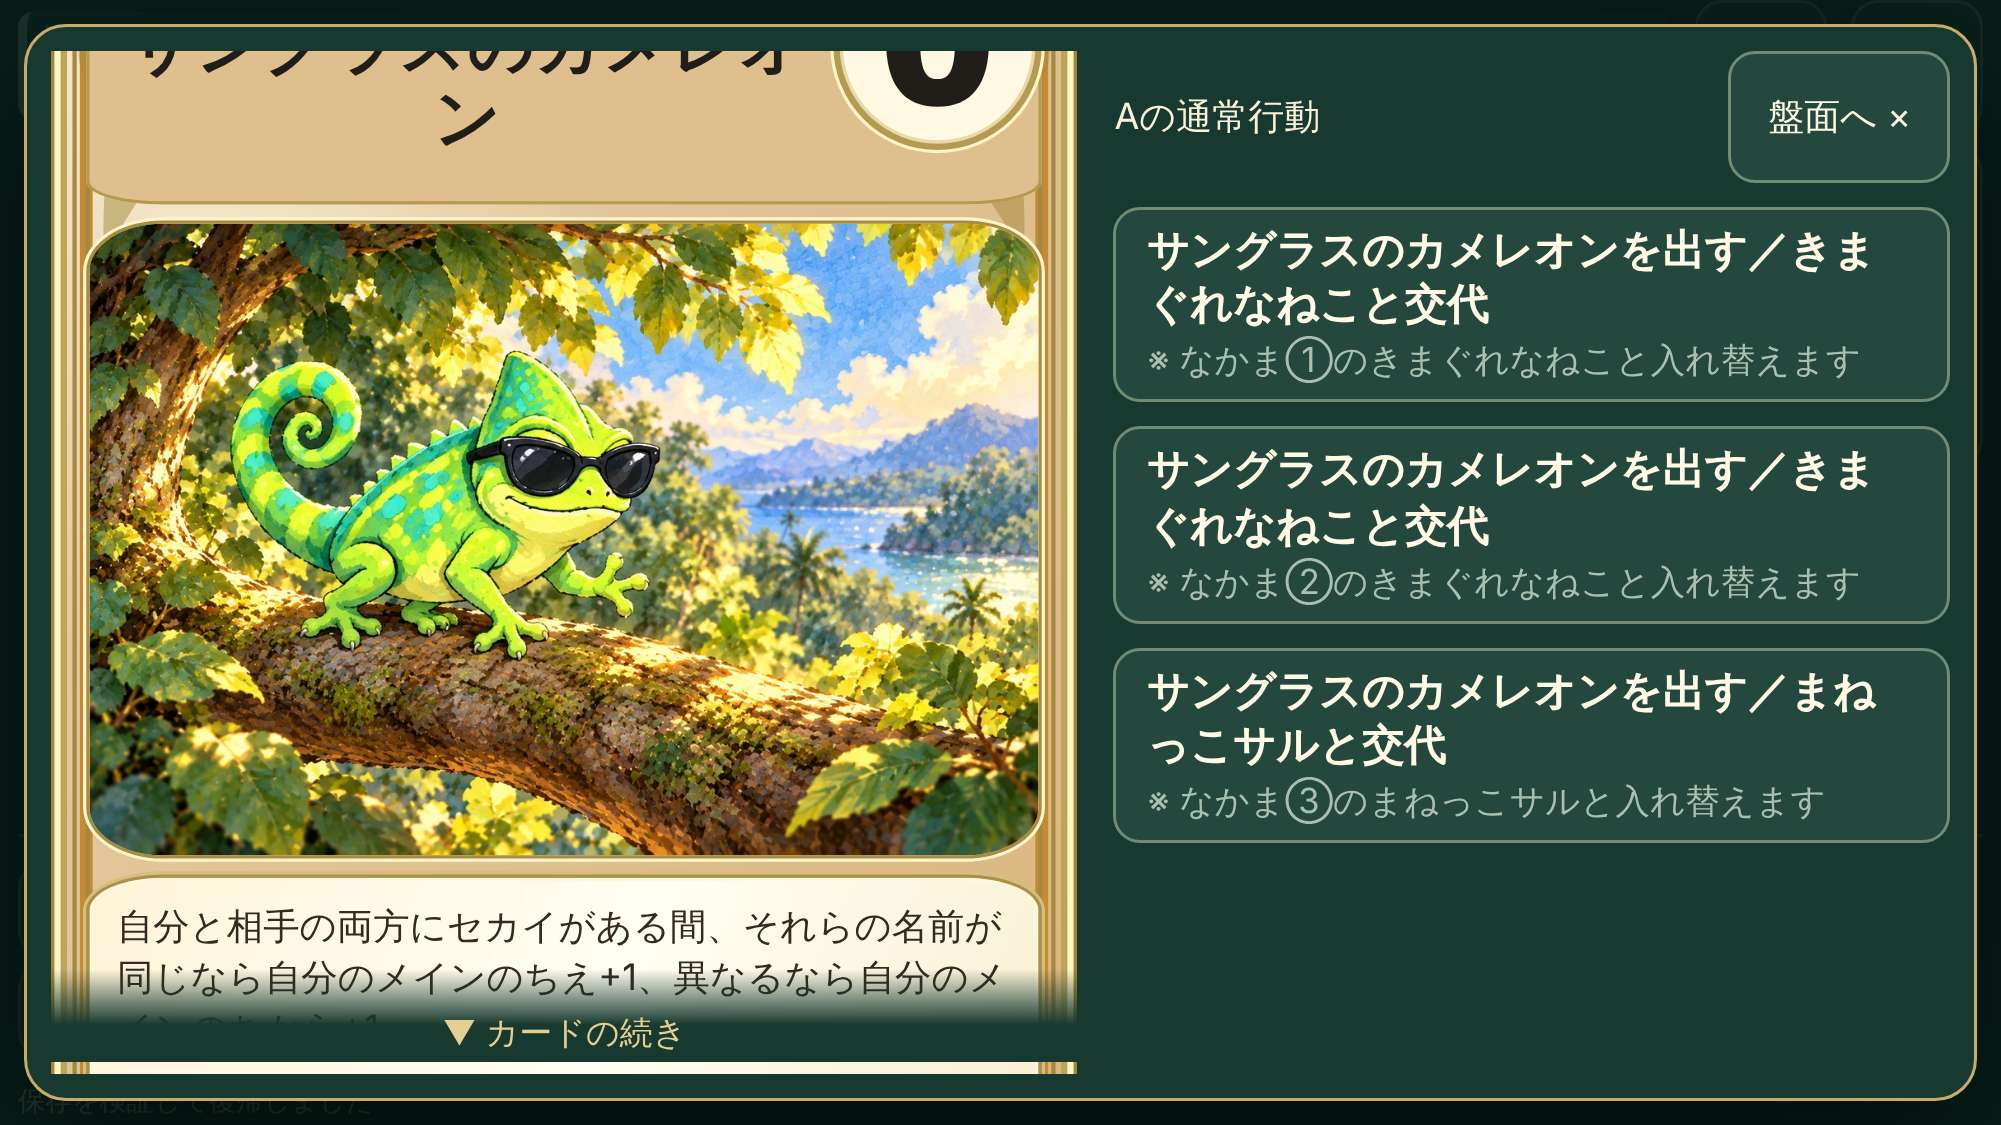
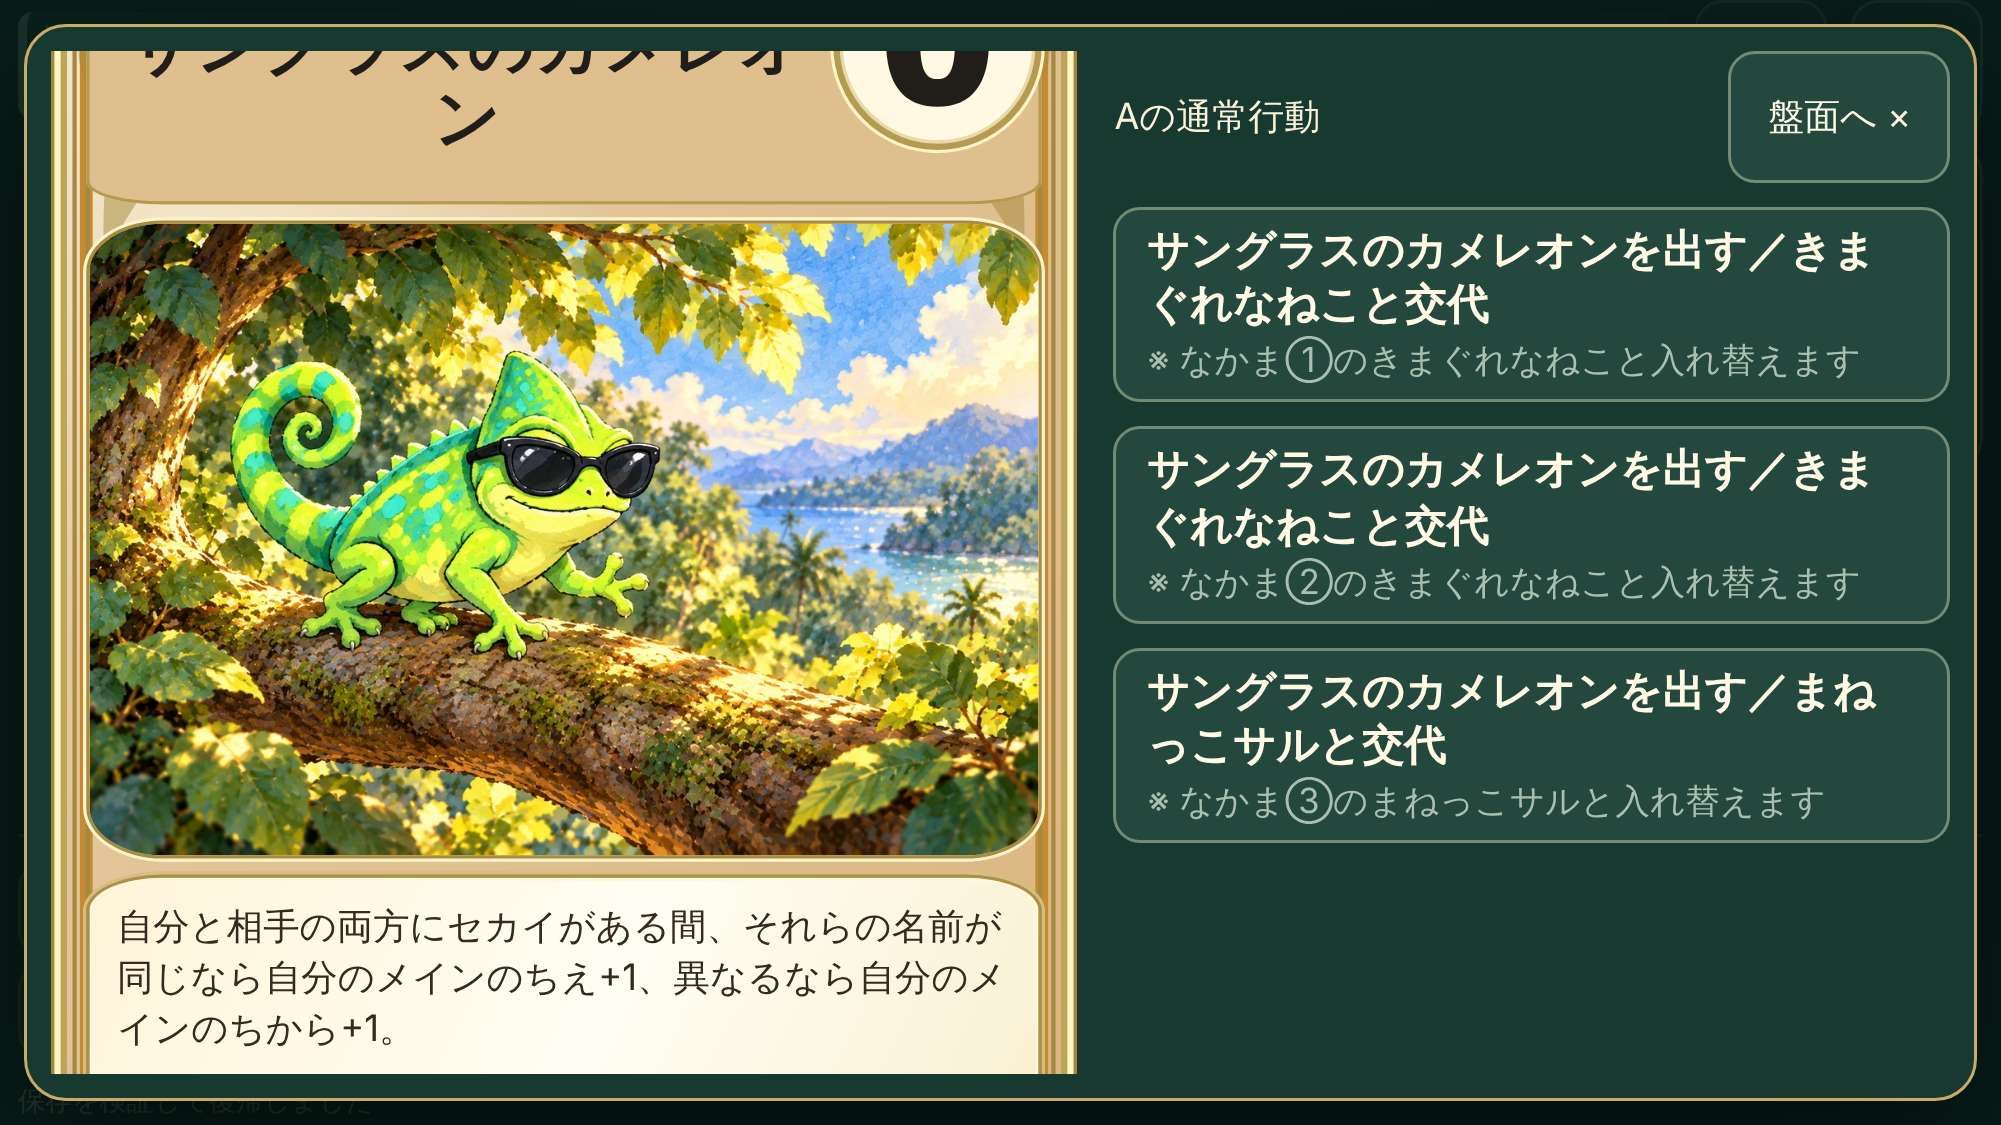
card-game: 案内帯撤廃のQA結果・右下の撮影・説明を更新（ダブルタップQAは動き終わりを待つ）
Claude-Session: https://claude.ai/code/session_018grTpWFJZUpn1gtteB7ViQ

Changed region(s): [[0.0, 0.84, 0.5577, 0.9644]]

diff --git a/prototypes/card-game/detail-doubletap-20261029/compare/README.md b/prototypes/card-game/detail-doubletap-20261029/compare/README.md
@@ -1,5 +1,7 @@
 # カード拡大の比較モード：右下の白い表示崩れの切り分けと、なめらかさの比較（2026-10-29）
 
+**追記（最終決定）:** 本人の確認で、白い領域の主な原因は「▼ カードの続き」の帯が途中で切れ、右側に本文のクリーム色が見えていたことと考えられます（本人の iPhone で最終確認が必要）。帯は正式版から撤廃し、比較の B（帯なし）は不要になったので削除しました。帯をなくしても白い部分が残る場合に備えて、ほかの比較（色分け・C〜F）は残しています。
+
 前回（HEAD `2ad26474`）の修正後も、本人の iPhone Safari で「拡大時の右下の白い表示崩れ」が残りました。拡大・縮小は以前よりなめらかになりましたが、さらに改善できるかも確かめます。
 
 **この回は正式ゲームのコード（`app.mjs`・`ui-viewport.mjs`・`style.css` など）を変えていません。** 原因が特定できていないため、推測で直すのをやめました。代わりに、本人の iPhone で原因を切り分けられる比較モードを、試遊版にだけ追加しました（`../../detail-stage-20261029/trial.mjs`・`trial.css`・`build-trial.mjs`）。
@@ -18,7 +20,7 @@
 |---|---|---|
 | ページ（`html`） | 試遊版では claude.ai の枠の中の地。通常は白 | 青 |
 | 詳細の画面（`#card-dialog`） | 深緑 | 紫 |
-| スクロール枠（`.stage-scroll`）と「▼ カードの続き」 | 深緑のグラデーション | 緑 |
+| スクロール枠（`.stage-scroll`） | 深緑。「▼ カードの続き」の帯は最終決定で撤廃 | 緑 |
 | カード枠（`.stage-card`） | 透明。中身を `transform: scale` で拡大・縮小 | 水色 |
 | カード面（`.card-face`） | 金色の地に**白っぽいグラデーション**。角丸＋はみ出しの切り取り（`overflow:hidden`）、`isolation`、`container-type` | 桃 |
 | 枠飾り（`svg.botanical`） | 金の線（面いっぱいの SVG） | （線のまま） |
@@ -32,7 +34,6 @@
 | 選択肢 | 変えること | 白い部分が消えたら、原因は |
 |---|---|---|
 | A 現行 | なし（いまの正式版と同じ） | — |
-| B「カードの続き」なし | 下端の「▼ カードの続き」の重ね表示を出さない | 重ね表示 |
 | C 切り取りを clip-path に | カード面・絵・本文の角丸の切り取りを `overflow:hidden` から `clip-path` に替える | 角丸の切り取り（WebKit の切り取りの描画） |
 | D カードを独立した描画層に | カードを常に別の描画層にする（`will-change: transform`） | 描画層の作り直し・タイルの描き残し |
 | E 拡大は実寸（zoom）で描く | 拡大中は `transform: scale` を使わず、CSS `zoom` で実際の大きさに描く | 拡大した変形の描画（WebKit の拡大描画） |
@@ -40,10 +41,10 @@
 
 - **色分け**（チェック）は、上のどれとも組み合わせられます。白い部分が何色に変わるかで、どの部分が見えているかが分かります。
 - **動きの長さ**は 200ms・260ms（現行）・320ms から選べます。
-- 詳細の上部に、選んだ方法（例「A・色・260ms」）が出るので、スクリーンショットだけでどの条件か分かります。
+- 既定（A・260ms・色分けなし）から変えた時だけ、詳細の上部に選んだ条件（例「C・260ms」）が出ます。通常の試遊では出ません。
 - 設定は試遊版の中だけに保存されます。正式ゲームには入りません（試遊版の組み立て時だけに加わる部分です）。
 
-Chromium での確認（[variants.json](variants.json)・[screenshots/](screenshots/)）: A〜F と色分けのすべてで、ダブルタップの拡大・縮小、元の大きさへの復帰、保存不変、ページ内エラーなしを確かめました（390×844・844×390、16/16）。E でも本文の改行位置は A と同じでした。
+Chromium での確認（[variants.json](variants.json)・[screenshots/](screenshots/)）: A・C〜F と色分けのすべてで、ダブルタップの拡大・縮小、元の大きさへの復帰、保存不変、ページ内エラーなしを確かめました（390×844・844×390、14/14）。E でも本文の改行位置は A と同じでした。
 
 ## 本人に確かめていただく手順
 
@@ -52,7 +53,7 @@ Chromium での確認（[variants.json](variants.json)・[screenshots/](screensh
    - **青**に変わる → ページの地が見えている（その部分がまったく描かれていない「穴」）
    - **黄**に変わる → 本文の背景（その範囲が正しくない）
    - **白のまま** → 上のどれでもない（白い何かが上に描かれている）
-2. 色分けを外して、**B・C・D・E・F** のそれぞれで同じ操作をし、白い部分が出るかどうかを見る。ピンチでの拡大も同じように確かめる。
+2. 色分けを外して、**C・D・E・F** のそれぞれで同じ操作をし、白い部分が出るかどうかを見る。ピンチでの拡大も同じように確かめる。
 3. なめらかさは、**A の 200・260・320ms** と **D の 260ms** を比べる。
 
 結果（どの選択肢で白い部分が消えたか、色分けで何色になったか）を教えていただければ、その原因に合わせて正式版を直します。

diff --git a/prototypes/card-game/detail-doubletap-20261029/README.md b/prototypes/card-game/detail-doubletap-20261029/README.md
@@ -114,6 +114,17 @@ PR #477 の公開後、本人の iPhone Safari で「ピンチでは拡大でき
 
 拡大中は、縦画面・横画面とも「－ 縮小」ボタンを出しません。戻るときはダブルタップ（またはピンチイン）です。拡大していないときの縦画面の「＋ 拡大」は従来どおりです。
 
+## 最終決定：「▼ カードの続き」の案内帯を撤廃（本人の iPhone 確認を受けて）
+
+本人の iPhone のスクリーンショットでは、拡大したカードの下部に暗い案内帯「▼ カードの続き」が途中まで表示され、その右側に本文のクリーム色が見えていました。これが「右下の白い領域」の主な原因と考えられます。
+
+- 案内帯は、カードの部分（スクロール枠）の下端に重ねて表示していました。帯の幅はスクロール枠の見えている幅で、拡大してカードが枠より広くなると、横にスクロールした先では帯が途中で切れます。
+- 本人の決定により、帯の幅を合わせるのではなく、**帯そのものを撤廃**しました。縦横・通常表示・拡大中のすべてで、カードの部分には案内を出しません。カードのスクロール自体はそのままです。
+- 操作ボタン欄の「▼ ほかの選択肢があります」（4つ以上の選択肢）は従来どおりです。
+- 帯のために、カードの部分をスクロールするたびにカードの大きさを計算し直していた処理もなくしました。今は操作ボタン欄の案内だけを軽く更新します。拡大中のスクロールの負担が減ります。
+- QA: 通常・ダブルタップ・ピンチ・拡大中のスクロール・動きの途中・縮小後の34時点で、6画面とも帯が一度も出ないことを確かめました。右下の撮影は [bottom-right/](bottom-right/) の `final-*` です。
+- 帯をなくしても別の白い部分が残るかは、本人の iPhone での確認が必要です。残る場合は、試遊版の比較モード（色分け・C〜F）で切り分けます（[compare/README.md](compare/README.md)）。
+
 ## 比較モード（白い表示崩れの切り分け・なめらかさの比較）
 
 前回の修正後も、本人の iPhone で右下の白い表示崩れが残りました。原因を特定するため、試遊版にだけ比較モードを加えました。正式ゲームのコードは変えていません。詳細と、本人に確かめていただく手順は [compare/README.md](compare/README.md) を参照してください。
@@ -131,7 +142,7 @@ PR #477 の公開後、本人の iPhone Safari で「ピンチでは拡大でき
 
 ## ブラウザQA（Chromium・iPhone相当のタッチ・モバイル表示・3倍密度）
 
-`qa.mjs` → [qa-results.json](qa-results.json)、**174/174 PASS**。○は合格、—はその画面では対象外。
+`qa.mjs` → [qa-results.json](qa-results.json)、**180/180 PASS**。○は合格、—はその画面では対象外。
 
 | 確認 | 390x844 | 320x568 | 844x390 | 852x393 | 932x430 | 667x375 |
 |---|---|---|---|---|---|---|
@@ -163,6 +174,7 @@ PR #477 の公開後、本人の iPhone Safari で「ピンチでは拡大でき
 | 盤面：手札カードの1回タップで詳細が開く（従来どおり） | ○ | ○ | ○ | ○ | ○ | ○ |
 | 盤面：手札カードのダブルタップでも対戦状態は変わらない | ○ | ○ | ○ | ○ | ○ | ○ |
 | カードの外では Safari 標準のピンチを妨げない（viewport・touch-action・2本指を打ち消さない） | ○ | ○ | ○ | ○ | ○ | ○ |
+| 「▼ カードの続き」の案内帯は一度も出ない（通常・ダブルタップ・ピンチ・拡大中のスクロール・動きの途中・縮小後） | ○ | ○ | ○ | ○ | ○ | ○ |
 | ページ内エラーなし | ○ | ○ | ○ | ○ | ○ | ○ |
 
 - **ピンチについて:** カード上のピンチは、2本指のタッチを CDP で送って確かめました（カード独自の拡大）。Chromium のヘッドレスはブラウザ自体のピンチ（ページ全体のズーム）を再現できません。カードの外については、ページ全体のピンチを妨げる指定がないこと（viewport、html・body の touch-action、2本指のタッチを打ち消さない）を確かめました。
